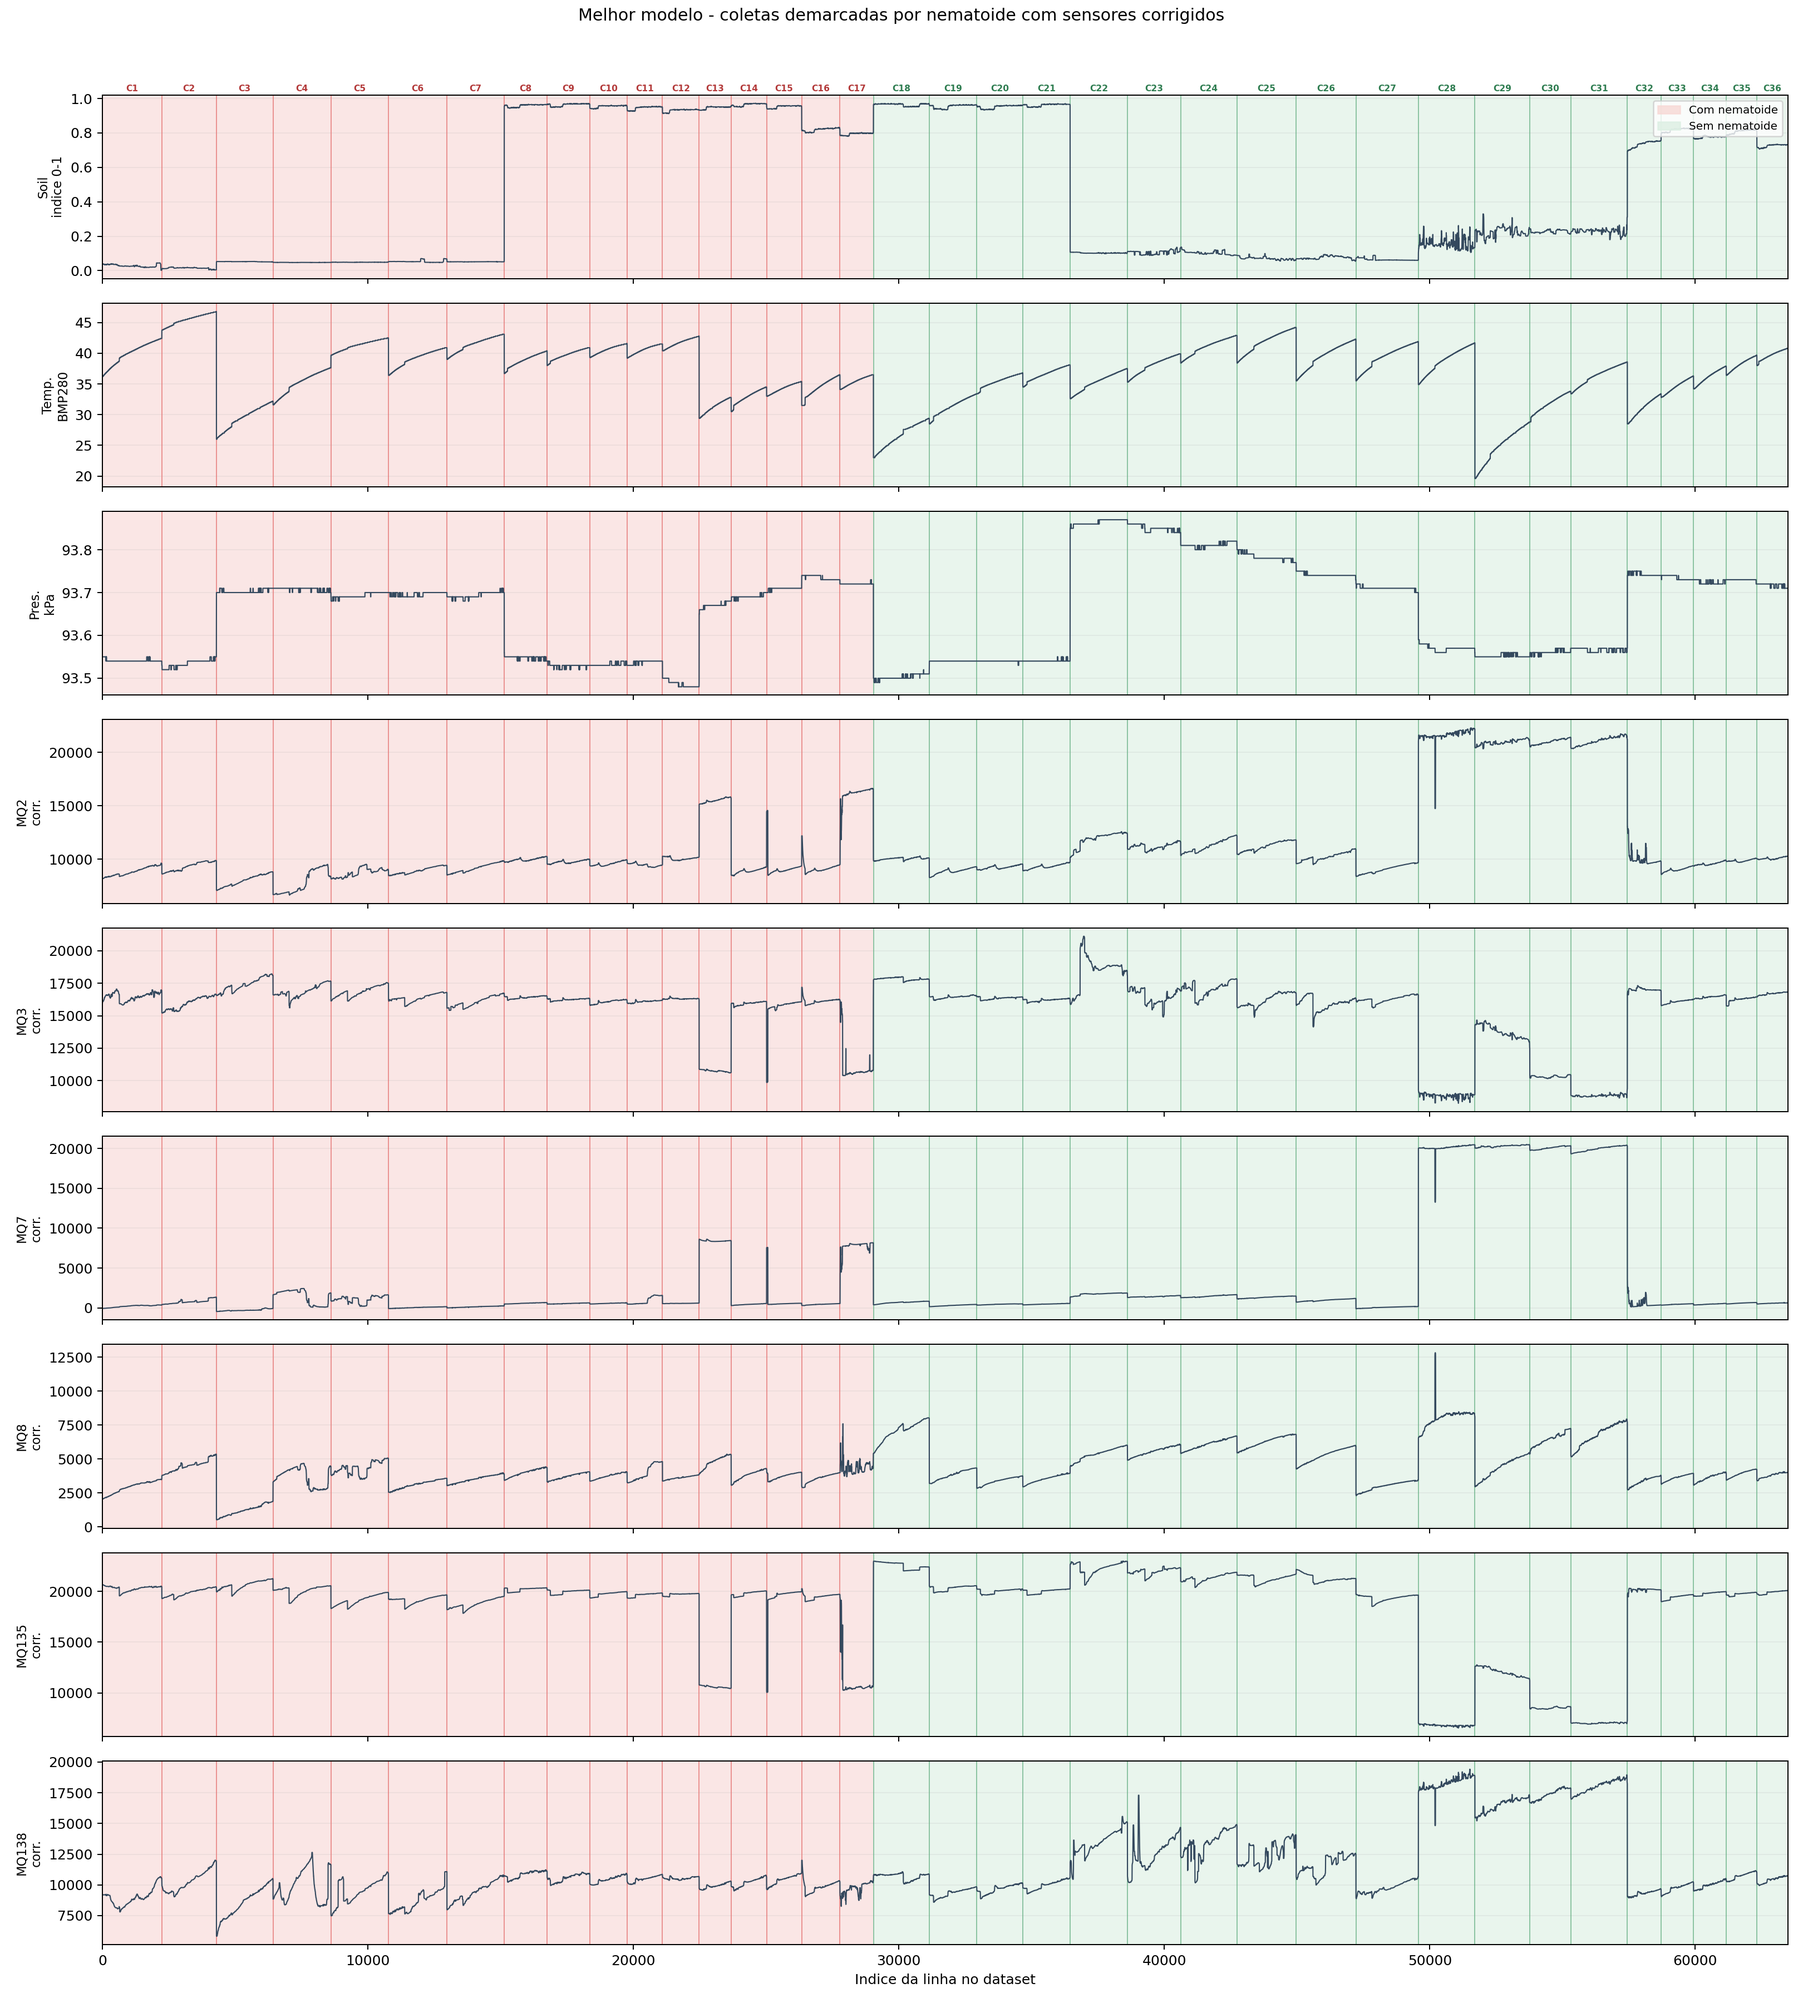
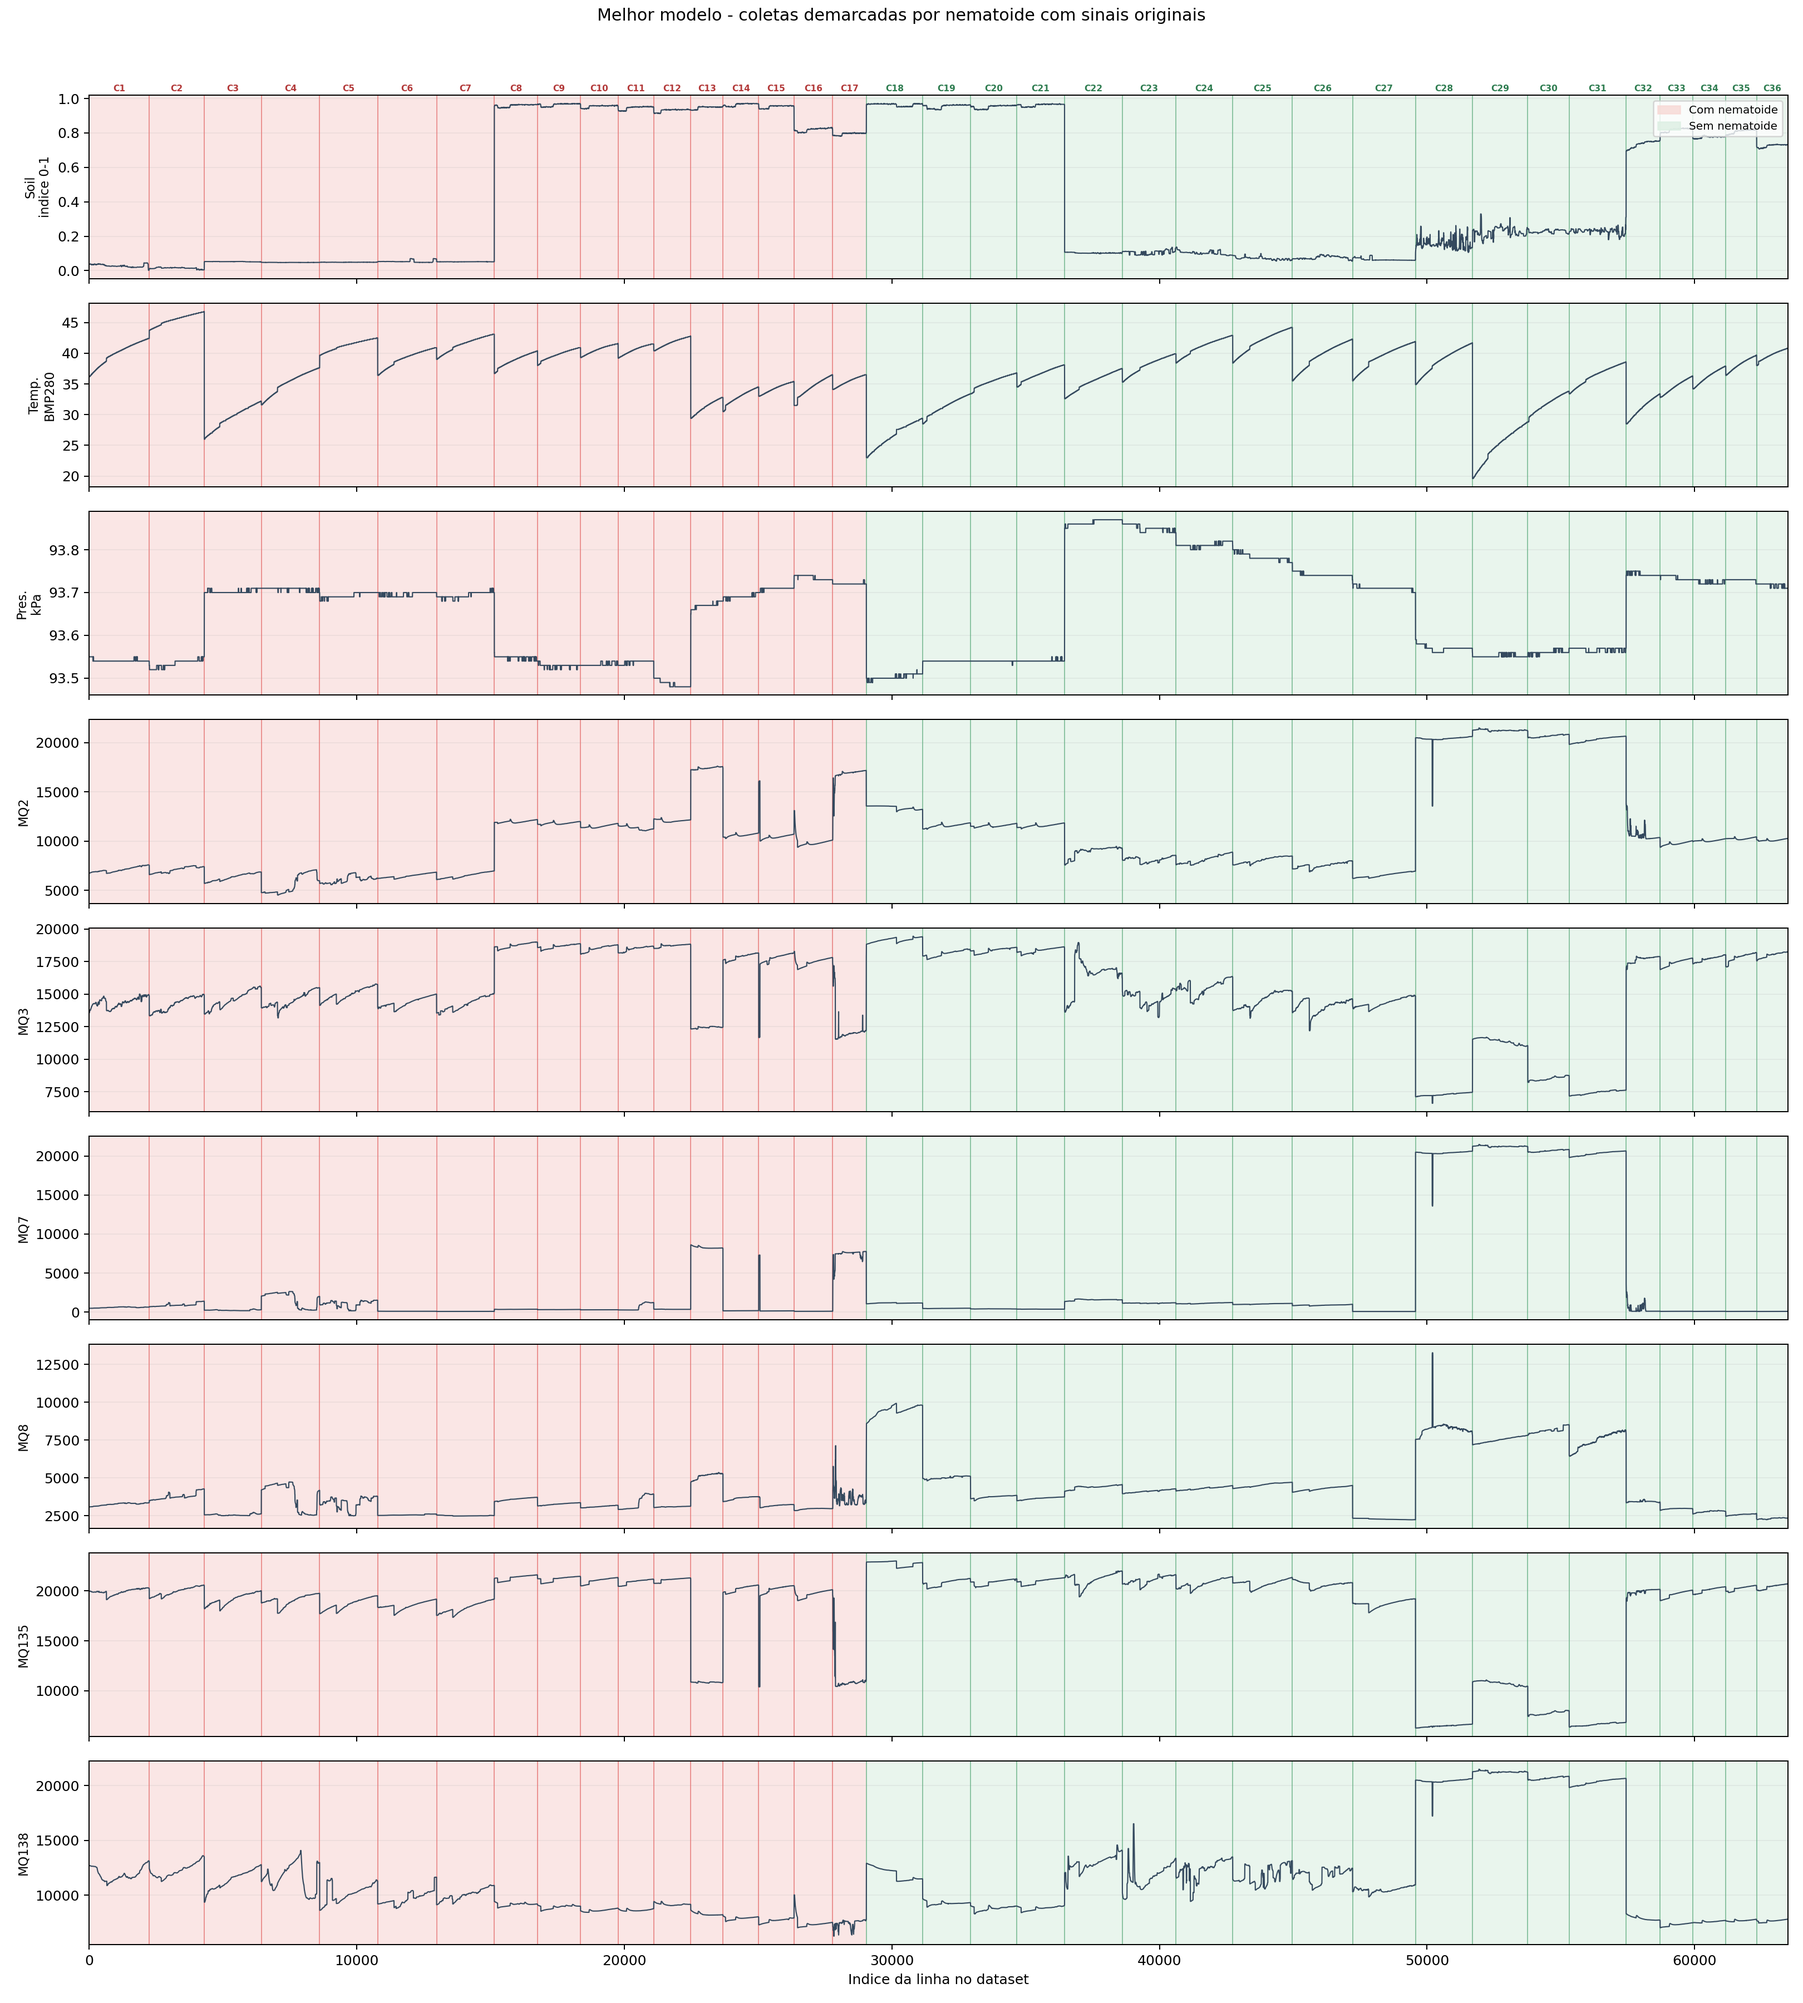
✨ feat: ratatata

diff --git a/15_07_dia_20_mais_completo/gerar_grafico_coletas_por_nematoide.py b/15_07_dia_20_mais_completo/gerar_grafico_coletas_por_nematoide.py
@@ -17,7 +17,12 @@ OUT = BASE / "graficos"
 MAPA_OUT = OUT / "mapa_coletas_nematoide_dia_20_mais.csv"
 FIG_OUT = OUT / "coletas_por_nematoide_dia_20_mais_estilo_06_07.png"
 
-FEATURES = ["Soil", "Temp.", "Pres.", "MQ2", "MQ3", "MQ7", "MQ8", "MQ135", "MQ138"]
+FEATURES = ["Soil_indice_0_1", "Temp.", "Pres.", "MQ2", "MQ3", "MQ7", "MQ8", "MQ135", "MQ138"]
+FEATURE_LABELS = {
+    "Soil_indice_0_1": "Soil\nindice 0-1",
+    "Temp.": "Temp.\nBMP280",
+    "Pres.": "Pres.\nkPa",
+}
 CLASS_LABEL = {0: "Com nematoide", 1: "Sem nematoide"}
 CLASS_COLOR = {0: "#f7d8d5", 1: "#dcefe3"}
 CLASS_LINE = {0: "#e57373", 1: "#6ab187"}
@@ -57,9 +62,12 @@ def plot(df: pd.DataFrame, segments: pd.DataFrame) -> None:
 
         values = pd.to_numeric(df[feature], errors="coerce").rolling(35, center=True, min_periods=1).median()
         ax.plot(x, values, color="#34495e", linewidth=0.85)
-        ax.set_ylabel(feature, fontsize=9)
+        ax.set_ylabel(FEATURE_LABELS.get(feature, feature), fontsize=9)
         ax.grid(axis="y", alpha=0.16)
         ax.set_xlim(0, len(df))
+        if feature == "Soil_indice_0_1":
+            ax.set_ylim(0, 1)
+            ax.set_yticks(np.linspace(0, 1, 6))
 
     for _, segment in segments.iterrows():
         classe = int(segment["Classe"])
@@ -81,7 +89,7 @@ def plot(df: pd.DataFrame, segments: pd.DataFrame) -> None:
     ]
     axes[0].legend(handles=handles, loc="upper right", fontsize=8)
     axes[-1].set_xlabel("Indice da linha no dataset")
-    fig.suptitle("Dia 20+ - coletas demarcadas por nematoide com MQ + ambiente", y=0.996)
+    fig.suptitle("Dia 20+ - coletas demarcadas por nematoide com sensores originais", y=0.996)
     fig.tight_layout(rect=[0, 0, 1, 0.982])
     fig.savefig(FIG_OUT, dpi=180)
     plt.close(fig)
@@ -90,6 +98,9 @@ def plot(df: pd.DataFrame, segments: pd.DataFrame) -> None:
 def main() -> None:
     OUT.mkdir(parents=True, exist_ok=True)
     df = pd.read_csv(DATASET)
+    soil = pd.to_numeric(df["Soil"], errors="coerce")
+    soil_range = soil.max() - soil.min()
+    df["Soil_indice_0_1"] = 0.0 if soil_range == 0 else (soil - soil.min()) / soil_range
     segments = build_segments(df)
     segments.to_csv(MAPA_OUT, index=False, encoding="utf-8-sig")
     plot(df, segments)

diff --git a/06_07_melhor_modelo/codigo/gerar_grafico_e_diagnostico_coletas.py b/06_07_melhor_modelo/codigo/gerar_grafico_e_diagnostico_coletas.py
@@ -18,7 +18,10 @@ ANALISE = BASE / "analise_C13_C17_C28"
 
 MQ_RAW = ["MQ2", "MQ3", "MQ7", "MQ8", "MQ135", "MQ138"]
 MQ_CORR = [f"{sensor}_corrigido_env" for sensor in MQ_RAW]
-PANELS_UPDATED = ["Soil_indice_0_1", "Temp_C", "Pres_kPa", *MQ_CORR]
+# O painel "estilo original" deve mostrar os canais medidos, sem a
+# compensacao ambiental. Os sinais corrigidos permanecem nos graficos
+# especificos de analise/modelagem.
+PANELS_UPDATED = ["Soil_indice_0_1", "Temp_C", "Pres_kPa", *MQ_RAW]
 PANELS_DIAG = ["Pres_kPa", *MQ_RAW]
 SELECTED = ["C13", "C14", "C15", "C16", "C17", "C28"]
 
@@ -98,12 +101,12 @@ def plot_updated_style(ordered: pd.DataFrame, blocks: pd.DataFrame) -> None:
         "Soil_indice_0_1": "Soil\nindice 0-1",
         "Temp_C": "Temp.\nBMP280",
         "Pres_kPa": "Pres.\nkPa",
-        "MQ2_corrigido_env": "MQ2\ncorr.",
-        "MQ3_corrigido_env": "MQ3\ncorr.",
-        "MQ7_corrigido_env": "MQ7\ncorr.",
-        "MQ8_corrigido_env": "MQ8\ncorr.",
-        "MQ135_corrigido_env": "MQ135\ncorr.",
-        "MQ138_corrigido_env": "MQ138\ncorr.",
+        "MQ2": "MQ2",
+        "MQ3": "MQ3",
+        "MQ7": "MQ7",
+        "MQ8": "MQ8",
+        "MQ135": "MQ135",
+        "MQ138": "MQ138",
     }
 
     for ax, feature in zip(axes_list, PANELS_UPDATED):
@@ -119,7 +122,7 @@ def plot_updated_style(ordered: pd.DataFrame, blocks: pd.DataFrame) -> None:
     axes_list[0].legend(handles=handles, loc="upper right", fontsize=8)
     axes_list[-1].set_xlabel("Indice da linha no dataset")
     fig.suptitle(
-        "Melhor modelo - coletas demarcadas por nematoide com sensores corrigidos",
+        "Melhor modelo - coletas demarcadas por nematoide com sinais originais",
         y=0.996,
     )
     fig.tight_layout(rect=[0, 0, 1, 0.982])
